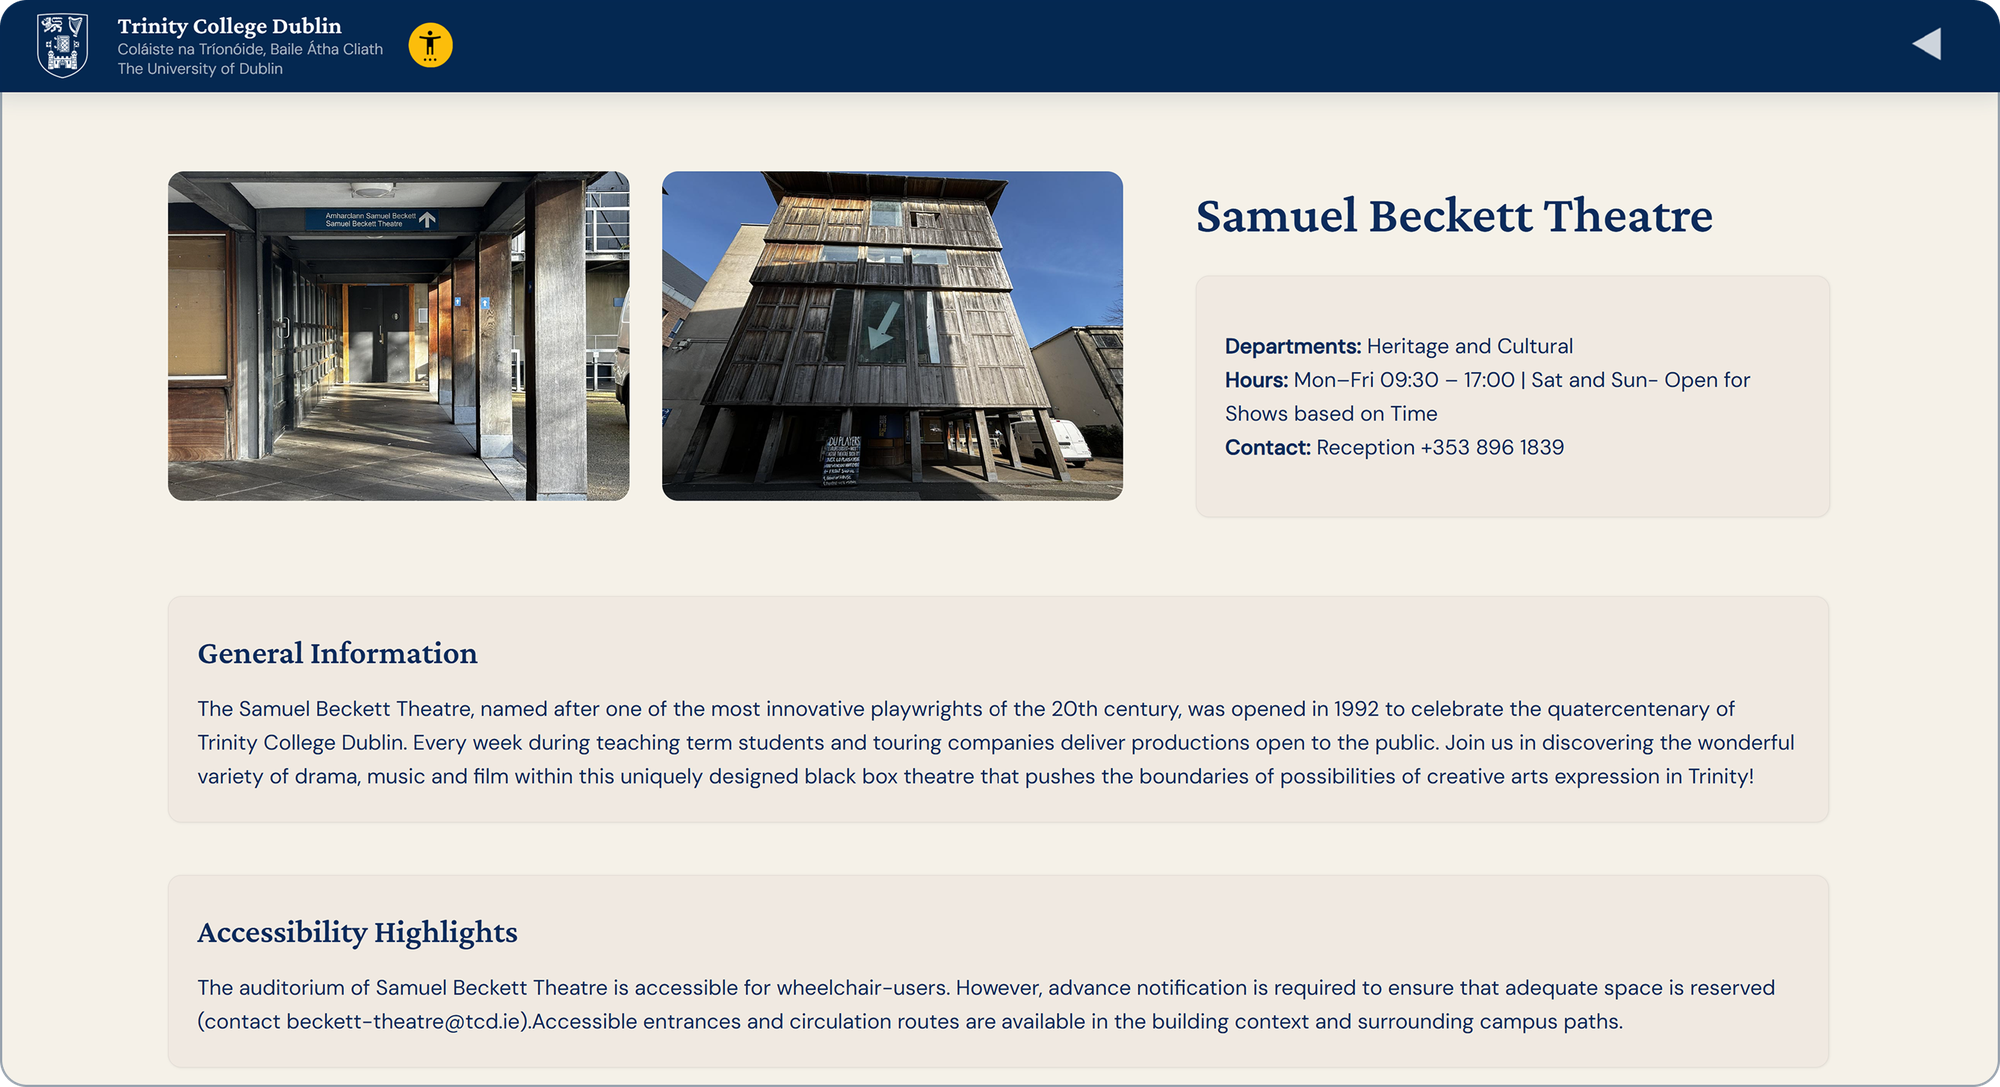
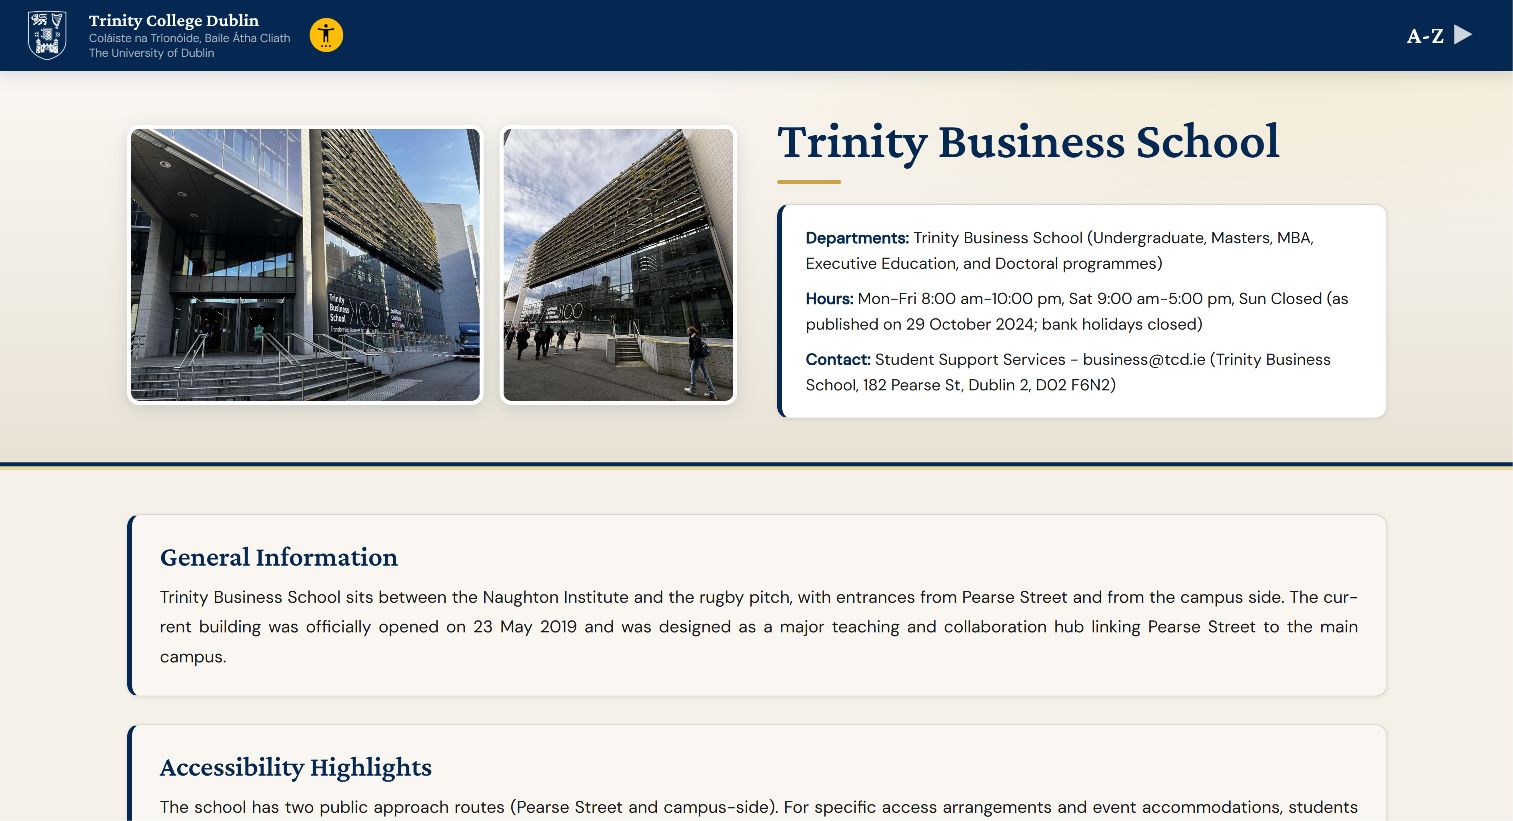
b

diff --git a/works/trinity-campus-search.html b/works/trinity-campus-search.html
@@ -12,7 +12,7 @@
   <link href="https://fonts.googleapis.com/css2?family=JetBrains+Mono:ital,wght@0,300;0,400;0,500;0,600;0,700;0,800;1,400;1,500&family=Roboto+Mono:wght@400;500;600;700;800&family=Crimson+Pro:wght@400;600&family=DM+Sans:wght@400;600&family=Source+Sans+3:wght@400;700&display=swap" rel="stylesheet">
 
   <link rel="stylesheet" href="../css/style.css?v=17">
-  <link rel="stylesheet" href="../css/project.css?v=128">
+  <link rel="stylesheet" href="../css/project.css?v=131">
 </head>
 <body>
 <script src="../js/page-loader.js"></script>
@@ -315,7 +315,7 @@
         <figcaption class="project-figure__caption">// welcome screen</figcaption>
       </figure>
       <figure class="project-figure">
-        <div class="project-figure__media" style="aspect-ratio: 2637 / 1419;">
+        <div class="project-figure__media" style="border-radius: 1.1% / 2%; aspect-ratio: 2637 / 1419;">
           <button class="project-figure__zoom" type="button" aria-label="View accessibility adjustments panel larger">
             <img src="../assets/images/t9.png" alt="Accessibility Adjustments panel open — saturation, dark mode, font size, text spacing" loading="lazy">
           </button>
@@ -364,7 +364,7 @@
 
     <section class="postcard-back-wrap postcard-back-wrap--left">
       <figure class="project-figure">
-        <div class="project-figure__media" style="aspect-ratio: 2676 / 1455;">
+        <div class="project-figure__media project-figure__media--framed" style="border-radius: 1.1% / 2%; aspect-ratio: 2676 / 1455;">
           <button class="project-figure__zoom" type="button" aria-label="View Samuel Beckett Theatre subpage larger">
             <img src="../assets/images/t14.png" alt="Samuel Beckett Theatre subpage with building information open" loading="lazy">
           </button>

diff --git a/css/project.css b/css/project.css
@@ -544,6 +544,18 @@
   aspect-ratio: 16 / 10;
 }
 
+/* hairline frame for a screenshot whose own edge is light and has no outline
+   baked in (the other Trinity screenshots carry a thin grey stroke in the
+   image itself); drawn over the image so it hugs the rounded edge */
+.project-figure__media--framed::after {
+  content: "";
+  position: absolute;
+  inset: 0;
+  border: 1px solid rgba(142, 154, 166, 0.7);
+  border-radius: inherit;
+  pointer-events: none;
+}
+
 .project-figure__zoom {
   display: block;
   width: 100%;
@@ -643,6 +655,21 @@
 .postcard-back-wrap__link {
   margin: 0 0 0 clamp(1.5rem, 4vw, 2.5rem);
   text-align: left;
+}
+
+/* Trinity: the lone building-subpage screenshot is exactly one column wide,
+   the same size as each image in the two-up rows above it */
+.postcard-back-wrap--left .project-figure {
+  flex: 0 0 calc(50% - 0.625rem);
+  width: calc(50% - 0.625rem);
+  max-width: none;
+}
+
+@media (max-width: 768px) {
+  .postcard-back-wrap--left .project-figure {
+    flex-basis: 100%;
+    width: 100%;
+  }
 }
 
 .postcard-back-wrap .project-figure {
@@ -2096,6 +2123,14 @@
 .artwork-embed__frame--chart {
   aspect-ratio: 10 / 8.2;
   background: #0f1423;
+  /* the translucent border used to sit over the dark background and read as a
+     thick black line; keep the dark fill inside the border only */
+  background-clip: padding-box;
+  border-color: rgba(23, 20, 18, 0.1);
+}
+
+html[data-theme="dark"] .artwork-embed__frame--chart {
+  border-color: rgba(240, 236, 228, 0.14);
 }
 
 .artwork-embed__frame iframe {

diff --git a/works/winrar-rebrand.html b/works/winrar-rebrand.html
@@ -12,7 +12,7 @@
   <link href="https://fonts.googleapis.com/css2?family=JetBrains+Mono:ital,wght@0,300;0,400;0,500;0,600;0,700;0,800;1,400;1,500&family=Roboto+Mono:wght@400;500;600;700;800&family=Special+Gothic+Expanded+One&display=swap" rel="stylesheet">
 
   <link rel="stylesheet" href="../css/style.css?v=17">
-  <link rel="stylesheet" href="../css/project.css?v=128">
+  <link rel="stylesheet" href="../css/project.css?v=131">
 </head>
 <body>
 <script src="../js/page-loader.js"></script>

diff --git a/works/surveillance-engine.html b/works/surveillance-engine.html
@@ -12,7 +12,7 @@
   <link href="https://fonts.googleapis.com/css2?family=JetBrains+Mono:ital,wght@0,300;0,400;0,500;0,600;0,700;0,800;1,400;1,500&family=Roboto+Mono:wght@400;500;600;700;800&display=swap" rel="stylesheet">
 
   <link rel="stylesheet" href="../css/style.css?v=17">
-  <link rel="stylesheet" href="../css/project.css?v=128">
+  <link rel="stylesheet" href="../css/project.css?v=131">
 </head>
 <body class="page-surveillance-engine">
 <script src="../js/page-loader.js"></script>

diff --git a/works/data-viz-gapminder.html b/works/data-viz-gapminder.html
@@ -12,7 +12,7 @@
   <link href="https://fonts.googleapis.com/css2?family=JetBrains+Mono:ital,wght@0,300;0,400;0,500;0,600;0,700;0,800;1,400;1,500&family=Roboto+Mono:wght@400;500;600;700;800&display=swap" rel="stylesheet">
 
   <link rel="stylesheet" href="../css/style.css?v=17">
-  <link rel="stylesheet" href="../css/project.css?v=128">
+  <link rel="stylesheet" href="../css/project.css?v=131">
 </head>
 <body class="page-data-viz-gapminder">
 <script src="../js/page-loader.js"></script>

diff --git a/works/artsy-dublin.html b/works/artsy-dublin.html
@@ -12,7 +12,7 @@
   <link href="https://fonts.googleapis.com/css2?family=JetBrains+Mono:ital,wght@0,300;0,400;0,500;0,600;0,700;0,800;1,400;1,500&family=Roboto+Mono:wght@400;500;600;700;800&display=swap" rel="stylesheet">
 
   <link rel="stylesheet" href="../css/style.css?v=17">
-  <link rel="stylesheet" href="../css/project.css?v=128">
+  <link rel="stylesheet" href="../css/project.css?v=131">
 </head>
 <body class="page-artsy-dublin">
 <script src="../js/page-loader.js"></script>

diff --git a/works/modu.html b/works/modu.html
@@ -12,7 +12,7 @@
   <link href="https://fonts.googleapis.com/css2?family=JetBrains+Mono:ital,wght@0,300;0,400;0,500;0,600;0,700;0,800;1,400;1,500&family=Roboto+Mono:wght@400;500;600;700;800&display=swap" rel="stylesheet">
 
   <link rel="stylesheet" href="../css/style.css?v=17">
-  <link rel="stylesheet" href="../css/project.css?v=128">
+  <link rel="stylesheet" href="../css/project.css?v=131">
 </head>
 <body class="page-modu">
 <script src="../js/page-loader.js"></script>

diff --git a/photography.html b/photography.html
@@ -12,7 +12,7 @@
   <link href="https://fonts.googleapis.com/css2?family=JetBrains+Mono:ital,wght@0,300;0,400;0,500;0,600;0,700;0,800;1,400;1,500&family=Roboto+Mono:wght@400;500;600;700;800&display=swap" rel="stylesheet">
 
   <link rel="stylesheet" href="css/style.css?v=17">
-  <link rel="stylesheet" href="css/project.css?v=128">
+  <link rel="stylesheet" href="css/project.css?v=131">
 </head>
 <body class="page-photography">
 <script src="js/page-loader.js"></script>

diff --git a/contact.html b/contact.html
@@ -12,7 +12,7 @@
   <link href="https://fonts.googleapis.com/css2?family=JetBrains+Mono:ital,wght@0,300;0,400;0,500;0,600;0,700;0,800;1,400;1,500&family=Roboto+Mono:wght@400;500;600;700;800&display=swap" rel="stylesheet">
 
   <link rel="stylesheet" href="css/style.css?v=17">
-  <link rel="stylesheet" href="css/project.css?v=128">
+  <link rel="stylesheet" href="css/project.css?v=131">
 </head>
 <body class="page-contact">
 <script src="js/page-loader.js"></script>

diff --git a/works/blizzard-countdown.html b/works/blizzard-countdown.html
@@ -12,7 +12,7 @@
   <link href="https://fonts.googleapis.com/css2?family=JetBrains+Mono:ital,wght@0,300;0,400;0,500;0,600;0,700;0,800;1,400;1,500&family=Roboto+Mono:wght@400;500;600;700;800&display=swap" rel="stylesheet">
 
   <link rel="stylesheet" href="../css/style.css?v=17">
-  <link rel="stylesheet" href="../css/project.css?v=128">
+  <link rel="stylesheet" href="../css/project.css?v=131">
 </head>
 <body>
 <script src="../js/page-loader.js"></script>

diff --git a/works/brand-design-marketing.html b/works/brand-design-marketing.html
@@ -12,7 +12,7 @@
   <link href="https://fonts.googleapis.com/css2?family=JetBrains+Mono:ital,wght@0,300;0,400;0,500;0,600;0,700;0,800;1,400;1,500&family=Roboto+Mono:wght@400;500;600;700;800&display=swap" rel="stylesheet">
 
   <link rel="stylesheet" href="../css/style.css?v=17">
-  <link rel="stylesheet" href="../css/project.css?v=128">
+  <link rel="stylesheet" href="../css/project.css?v=131">
 </head>
 <body>
 <script src="../js/page-loader.js"></script>

diff --git a/works/under-the-feet-of-shadows.html b/works/under-the-feet-of-shadows.html
@@ -12,7 +12,7 @@
   <link href="https://fonts.googleapis.com/css2?family=JetBrains+Mono:ital,wght@0,300;0,400;0,500;0,600;0,700;0,800;1,400;1,500&family=Roboto+Mono:wght@400;500;600;700;800&display=swap" rel="stylesheet">
 
   <link rel="stylesheet" href="../css/style.css?v=17">
-  <link rel="stylesheet" href="../css/project.css?v=128">
+  <link rel="stylesheet" href="../css/project.css?v=131">
 </head>
 <body>
 <script src="../js/page-loader.js"></script>
